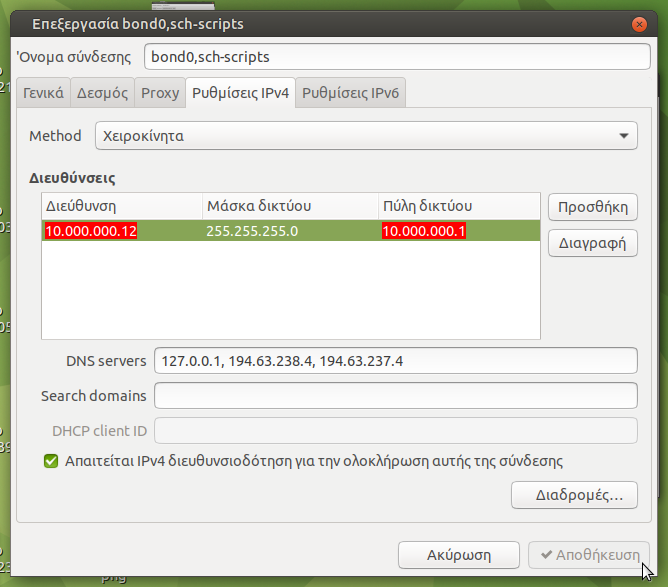
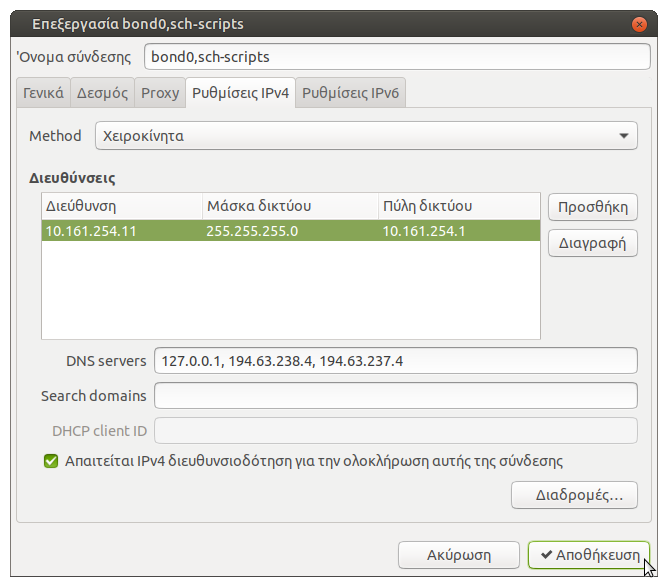
update bonding

Changed region(s): [[0.0, 0.0, 1.0, 1.0], [0.0599, 0.368, 0.2096, 0.4293], [0.5689, 0.368, 0.7186, 0.4293]]

diff --git a/docs/guides/bonding/index.md b/docs/guides/bonding/index.md
@@ -4,7 +4,7 @@
 τις ρυθμίσετε σε λειτουργία bonding, ώστε να έχετε **διπλάσια ταχύτητα
 επικοινωνίας** (2 Gbps) μεταξύ του server και των clients. Το μόνο που πρέπει
 να εξασφαλίσετε είναι και οι δύο κάρτες δικτύου να ειναι συνδεδεμένες **στο
-ίδιο switch** του εργαστηρίου που ειναι και τα clients.
+ίδιο gigabit switch** του εργαστηρίου που είναι και τα clients.
 
 ## Ρυθμίσεις - Βήματα
 
@@ -46,24 +46,24 @@
 
 9.  [![](set_eth_name_dev_enp1s0_paste_mac.png)](set_eth_name_dev_enp1s0_paste_mac.png)
     Στο παράθυρο που θα εμφανιστεί ορίζετε το ***Όνομα σύνδεσης*** σε
-    `bond,enp1s0` και στο ***Device*** επιλέγετε ***enp1s0
+    `bond0,enp1s0` και στο ***Device*** επιλέγετε ***enp1s0
     (xx:xx:xx:xx:xx:xx)***. Στο πεδίο ***Cloned MAC address*** κάνετε ***δεξί
     κλικ*** ▸ ***Επικόλληση***, τη MAC address που είχατε αντιγράψει στο
     "πρόχειρο" (βήμα 6). Στην συνέχεια επιλέξτε ***Αποθήκευση***. Δείτε
     συνολικά το βήμα στη διπλανή εικόνα.
     {.clear}
 
-10. Στο παράθυρο με τις ***Bonded connections*** θα δείτε οτι κάτω
-    από την `bond0,eno1` προστέθηκε και η `bond,enp1s0` που μόλις
-    δημιουργήσατε.
+10. Στο παράθυρο με τις ***Bonded connections*** θα δείτε οτι κάτω από την
+    `bond0,eno1` προστέθηκε και η `bond0,enp1s0` που μόλις δημιουργήσατε.
 
 11. [![](ipv4_settings.png)](ipv4_settings.png)
     Χωρίς να κλείσετε το παράθυρο, επιλέγετε την "καρτέλα" ***Ρυθμίσεις IPv4***
-    στην οποία ρυθμίζετε στατική ή δυναμική IP, DNS servers, ανάλογα τι
-    επιθυμείτε. Να επιλέξετε και το ***Απαιτείται IPv4 διευθυνσιοδότηση για την
-    ολοκλήρωση αυτής της σύνδεσης***. Στο τέλος επιλέξτε ***Αποθήκευση***. Στο
-    διπλανό σχήμα βλέπετε συνολικά τις ρυθμίσεις για στατικη IP `10.x.y.12`.
-    Όπου `000` να βάλετε τους κατάλληλους αριθμούς του υποδικτύου σας.
+    στην οποία ρυθμίζετε στατική ή δυναμική IP, DNS servers `127.0.0.1,
+    194.63.238.4, 194.63.237.4`, ανάλογα τι επιθυμείτε. Να **επιλέξετε** και το
+    ***Απαιτείται IPv4 διευθυνσιοδότηση για την ολοκλήρωση αυτής της
+    σύνδεσης***. Στο τέλος ***Αποθήκευση***. Στο διπλανό σχήμα βλέπετε συνολικά
+    τις ρυθμίσεις για στατικη IP. Όπου `10.161.254.11` και `10.161.254.1`να
+    βάλετε τους κατάλληλους αριθμούς του υποδικτύου σας.
     {.clear}
 
 12. [![](add_new_con_final.png)](add_new_con_final.png)
